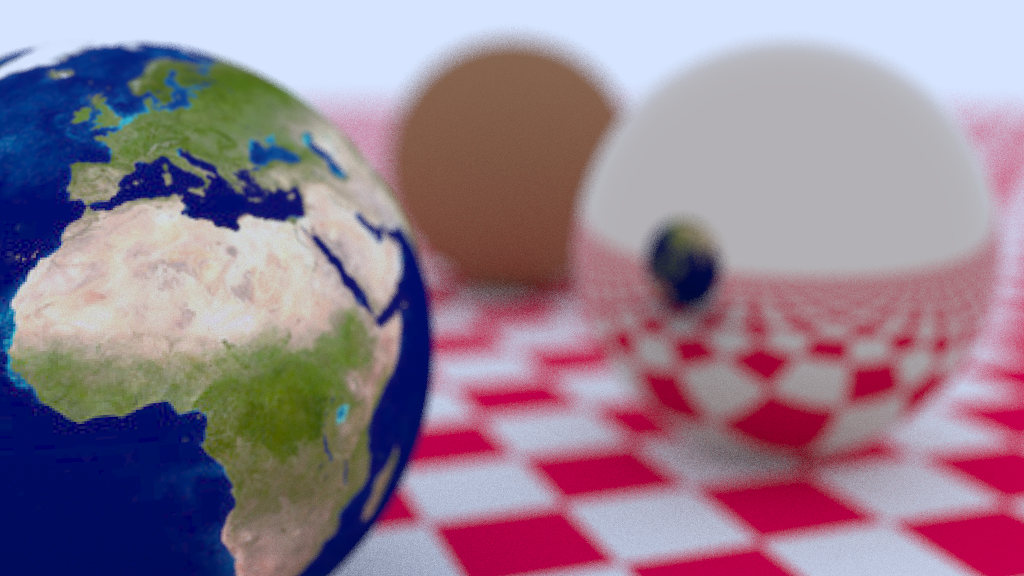
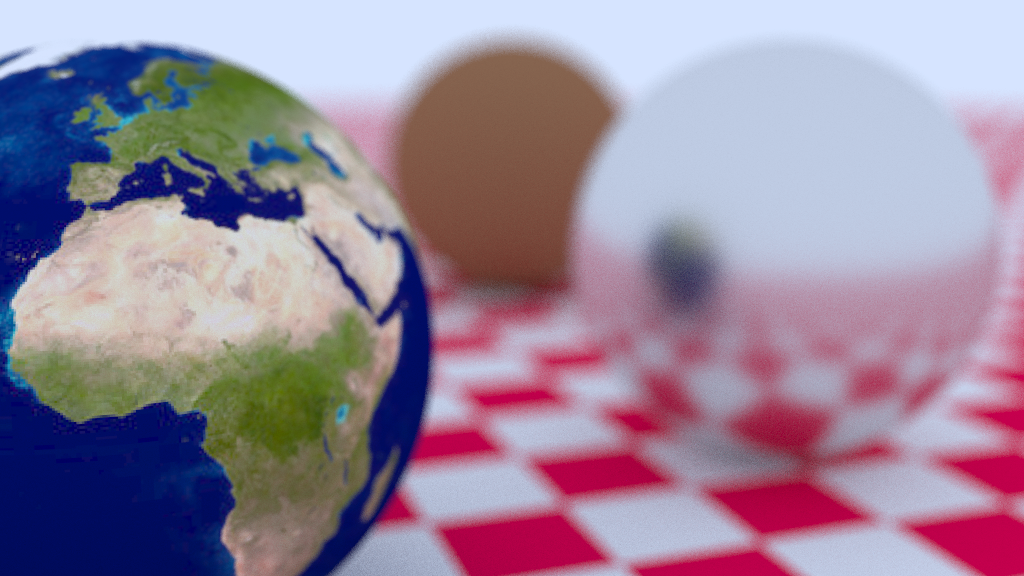
yeah

Changed region(s): [[0.5312, 0.0625, 1.0, 0.8438]]

diff --git a/src/material.rs b/src/material.rs
@@ -1,18 +1,17 @@
 use std::{f64::consts::PI, sync::Arc};
 
-use glam::FloatExt;
 use rand::{thread_rng, Rng};
 
 use crate::{
     hit_info::HitInfo,
     ray::Ray,
     texture::{SolidColorTexture, Texture},
-    vec3::{get_rotation_to_z, Vec2, Vec3},
+    vec3::{random_vector, Vec3},
 };
 
 const EPS: f64 = 1e-3;
 
-pub trait Material {
+pub trait Material: Send + Sync {
     /// returns: attenuation (brdf/pdf), and optionally the scattered ray
     fn scatter(&self, ray: &Ray, hit_info: &HitInfo) -> (Vec3, Option<Ray>);
     fn emitted(&self, _u: f64, _v: f64, _p: Vec3) -> Vec3 {
@@ -83,92 +82,13 @@ impl Specular {
             roughness,
         }
     }
-
-    fn f0(&self, hit_info: &HitInfo) -> Vec3 {
-        self.texture.value(hit_info.u, hit_info.v, &hit_info.point)
-    }
-
-    fn sample_specular(
-        v_local: Vec3,
-        alpha: f64,
-        alpha_squared: f64,
-        specular_f0: Vec3,
-    ) -> (Vec3, Vec3) {
-        let n_local = Vec3::Z;
-
-        // H is a microfact normal
-        let h_local = if alpha == 0.0 {
-            // no roughness -> no microfacets
-            n_local
-        } else {
-            // sample from the half-vector distribution
-            Self::sample_microfacet_normal(v_local, Vec2::new(alpha, alpha))
-        };
-
-        // reflect the view direction
-        let l_local = (-v_local).reflect(h_local);
-
-        let h_dot_l = h_local.dot(l_local).clamp(EPS, 1.0);
-        let n_dot_l = n_local.dot(l_local).clamp(EPS, 1.0);
-        let n_dot_v = n_local.dot(v_local).clamp(EPS, 1.0);
-        let fresnel = Self::eval_fresnel(specular_f0, h_dot_l);
-
-        let weight = fresnel * Self::sample_specular_weight(alpha_squared, n_dot_l, n_dot_v);
-        (weight, l_local)
-    }
-
-    /// view_dir: the view direction
-    /// alpha2d: the roughness params for x- and y- axis
-    /// returns: a sampled microfacet half normal on the microfacet distribution (GGX)
-    fn sample_microfacet_normal(view_dir: Vec3, alpha2d: Vec2) -> Vec3 {
-        let mut rng = thread_rng();
-
-        // make the orthonormal base v_h, t1, t2
-        let v_h = Vec3::new(alpha2d.x * view_dir.x, alpha2d.y * view_dir.y, view_dir.z).normalize();
-        let v1 = Vec3::new(-v_h.y, v_h.x, 0.0)
-            .try_normalize()
-            .unwrap_or(Vec3::X);
-        let v2 = v_h.cross(v1);
-
-        let r1 = rng.gen::<f64>();
-        let r = r1.sqrt();
-        let phi = rng.gen_range(0.0..2.0 * PI);
-        let s = 0.5 * (1.0 + v_h.z);
-        let t1 = r * phi.cos();
-        let t2 = (1.0 - t1 * t1).sqrt().lerp(r * phi.sin(), s);
-
-        let n_h = t1 * v1 + t2 * v2 + (1.0 - t1 * t1 - t2 * t2).max(0.0).sqrt() * v_h;
-
-        Vec3::new(alpha2d.x * n_h.x, alpha2d.y * n_h.y, n_h.z.max(0.0)).normalize()
-    }
-    fn sample_specular_weight(alpha_squared: f64, n_dot_l: f64, n_dot_v: f64) -> f64 {
-        let g1v = Self::smith_g1(alpha_squared, n_dot_v * n_dot_v);
-        let g1l = Self::smith_g1(alpha_squared, n_dot_l * n_dot_l);
-        g1l / (g1v + g1l - g1v * g1l)
-    }
-    fn smith_g1(alpha_squared: f64, n_dot_s_sqrd: f64) -> f64 {
-        2.0 / ((((alpha_squared * (1.0 - n_dot_s_sqrd)) + n_dot_s_sqrd) / n_dot_s_sqrd).sqrt()
-            + 1.0)
-    }
-    fn eval_fresnel(f0: Vec3, cosine: f64) -> Vec3 {
-        f0 + (1.0 - f0) * (1.0 - cosine).powi(5)
-    }
 }
 
 impl Material for Specular {
     fn scatter(&self, ray: &Ray, hit_info: &HitInfo) -> (Vec3, Option<Ray>) {
-        let view_dir = -ray.direction();
-
-        // transform to tangent space
-        let rotation_to_z = get_rotation_to_z(hit_info.normal);
-        let v_local = rotation_to_z * view_dir;
-        let alpha = self.roughness * self.roughness * self.roughness;
-        let alpha_squared = alpha * alpha;
-
-        let (attenuation, dir_local) =
-            Self::sample_specular(v_local, alpha, alpha_squared, self.f0(hit_info));
-
-        let scatter_dir = rotation_to_z.inverse() * dir_local;
+        let attenuation = self.texture.value(hit_info.u, hit_info.v, &hit_info.point);
+        let reflect_dir = ray.direction().reflect(hit_info.normal);
+        let scatter_dir = reflect_dir + (self.roughness * random_vector());
         (
             attenuation,
             Some(Ray::new(
@@ -258,16 +178,44 @@ impl Material for DiffuseLight {
 }
 
 #[derive(Clone)]
+pub struct MixMaterial {
+    t: f64, // 0 = use mat1 entirely, 1 = use mat2 entirely
+    mat1: Arc<dyn Material>,
+    mat2: Arc<dyn Material>,
+}
+
+impl MixMaterial {
+    pub fn new(t: f64, mat1: Arc<dyn Material>, mat2: Arc<dyn Material>) -> MixMaterial {
+        Self {
+            t: t.clamp(0.0, 1.0),
+            mat1,
+            mat2,
+        }
+    }
+}
+
+impl Material for MixMaterial {
+    fn scatter(&self, ray: &Ray, hit_info: &HitInfo) -> (Vec3, Option<Ray>) {
+        let p: f64 = thread_rng().gen();
+        if self.t < p {
+            self.mat1.scatter(ray, hit_info)
+        } else {
+            self.mat2.scatter(ray, hit_info)
+        }
+    }
+}
+
+#[derive(Clone)]
 pub enum MaterialType {
     DIFFUSE(Diffuse),
     SPECULAR(Specular),
     REFRACTIVE(Refractive),
     LIGHT(DiffuseLight),
+    MIX(MixMaterial),
 }
 
 impl Default for MaterialType {
     fn default() -> Self {
-        // Self::SPECULAR(Specular { albedo: Vec3::ZERO })
-        Self::LIGHT(DiffuseLight::from_rgb(Vec3::ZERO))
+        Self::DIFFUSE(Diffuse::from_rgb(Vec3::ONE))
     }
 }

diff --git a/src/main.rs b/src/main.rs
@@ -3,7 +3,7 @@ use std::sync::Arc;
 use path_tracer::{
     camera::Camera,
     light::PointLight,
-    material::{Diffuse, DiffuseLight, MaterialType, Refractive, Specular},
+    material::{Diffuse, DiffuseLight, MaterialType, MixMaterial, Refractive, Specular},
     quad::Quad,
     sphere::Sphere,
     texture::{CheckerTexture, ImageTexture},
@@ -114,7 +114,7 @@ fn earth_scene() {
     let mut camera = Camera::new();
     camera.aspect_ratio = 16.0 / 9.0;
     camera.image_width = 1024;
-    camera.samples_per_pixel = 100;
+    camera.samples_per_pixel = 200;
     camera.max_depth = 10;
 
     camera.vfov = 28.0;
@@ -203,23 +203,34 @@ fn basic_light_scene() {
         Vec3::new(0.0, -1000.0, 0.0),
         red.clone(),
     ));
+
+    // plasticy cermaicy material???
+    let mat1a = Diffuse::from_rgb(Vec3::new(0.7, 0.9, 0.5));
+    let mat1b = Specular::from_rgb(Vec3::ONE, 0.1);
+    let mat1 = MaterialType::MIX(MixMaterial::new(0.05, Arc::new(mat1a), Arc::new(mat1b)));
+    world.add(Sphere::new_still(2.0, Vec3::new(-4.0, 2.0, 0.0), mat1));
+
+    let mat_diffuse = MaterialType::DIFFUSE(Diffuse::from_rgb(Vec3::ONE));
     world.add(Sphere::new_still(
         2.0,
         Vec3::new(0.0, 2.0, 0.0),
-        red.clone(),
+        mat_diffuse,
     ));
 
-    let diffuse_light = MaterialType::LIGHT(DiffuseLight::from_rgb(Vec3::new(14.0, 14.0, 14.0)));
+    let mat_metal = MaterialType::SPECULAR(Specular::from_rgb(Vec3::new(0.8, 0.6, 0.2), 0.2));
+    world.add(Sphere::new_still(2.0, Vec3::new(4.0, 2.0, 0.0), mat_metal));
+
+    let diffuse_light = MaterialType::LIGHT(DiffuseLight::from_rgb(Vec3::new(10.0, 10.0, 10.0)));
     world.add(Quad::new(
-        Vec3::new(3.0, 1.0, -2.0),
-        Vec3::new(2.0, 0.0, 0.0),
-        Vec3::new(0.0, 2.0, 0.0),
+        Vec3::new(-2.0, 6.5, 0.0),
+        Vec3::new(4.0, 0.0, 0.0),
+        Vec3::new(0.0, 0.0, 2.0),
         diffuse_light,
     ));
 
     world.add_light(PointLight {
-        position: Vec3::new(4.0, 5.0, 0.0),
-        power: Vec3::new(1.0, 9.0, 1.0),
+        position: Vec3::new(-2.0, 2.0, 8.0),
+        power: Vec3::new(0.1, 0.5, 8.1),
     });
 
     world.build_bvh();
@@ -227,11 +238,11 @@ fn basic_light_scene() {
     let mut camera = Camera::new();
     camera.aspect_ratio = 16.0 / 9.0;
     camera.image_width = 400;
-    camera.samples_per_pixel = 100;
+    camera.samples_per_pixel = 1000;
     camera.max_depth = 50;
 
-    camera.vfov = 20.0;
-    camera.look_from = Vec3::new(26.0, 3.0, 6.0);
+    camera.vfov = 30.0;
+    camera.look_from = Vec3::new(0.0, 3.0, 17.0);
     camera.look_at = Vec3::new(0.0, 2.0, 0.0);
     camera.vup = Vec3::new(0.0, 1.0, 0.0);
 
@@ -239,7 +250,7 @@ fn basic_light_scene() {
     camera.focal_length = 10.0;
     camera.defocus_angle = 0.0;
 
-    camera.ambient_light = Vec3::new(0.0, 0.0, 0.0);
+    camera.ambient_light = Vec3::new(0.2, 0.2, 0.2);
 
     camera.init();
     camera.render(&world, "lights.png");
@@ -327,7 +338,7 @@ fn cornell_box_scene() {
 }
 
 fn main() {
-    let x = 1;
+    let x = 4;
     match x {
         1 => balls_scene(),
         2 => earth_scene(),

diff --git a/src/camera.rs b/src/camera.rs
@@ -200,6 +200,9 @@ impl Camera {
                 MaterialType::LIGHT(ref diffuse_light) => {
                     diffuse_light.emitted(hit_info.u, hit_info.v, hit_info.point)
                 }
+                MaterialType::MIX(ref mix_material) => {
+                    mix_material.emitted(hit_info.u, hit_info.v, hit_info.point)
+                }
             };
             radiance += emission * throughput;
 
@@ -219,6 +222,7 @@ impl Camera {
                 MaterialType::SPECULAR(ref specular) => specular.scatter(&ray, &hit_info),
                 MaterialType::REFRACTIVE(ref refractive) => refractive.scatter(&ray, &hit_info),
                 MaterialType::LIGHT(ref diffuse_light) => diffuse_light.scatter(&ray, &hit_info),
+                MaterialType::MIX(ref mix_material) => mix_material.scatter(&ray, &hit_info),
             };
             if let Some(scatter_ray) = next_ray {
                 throughput *= attenuation;
